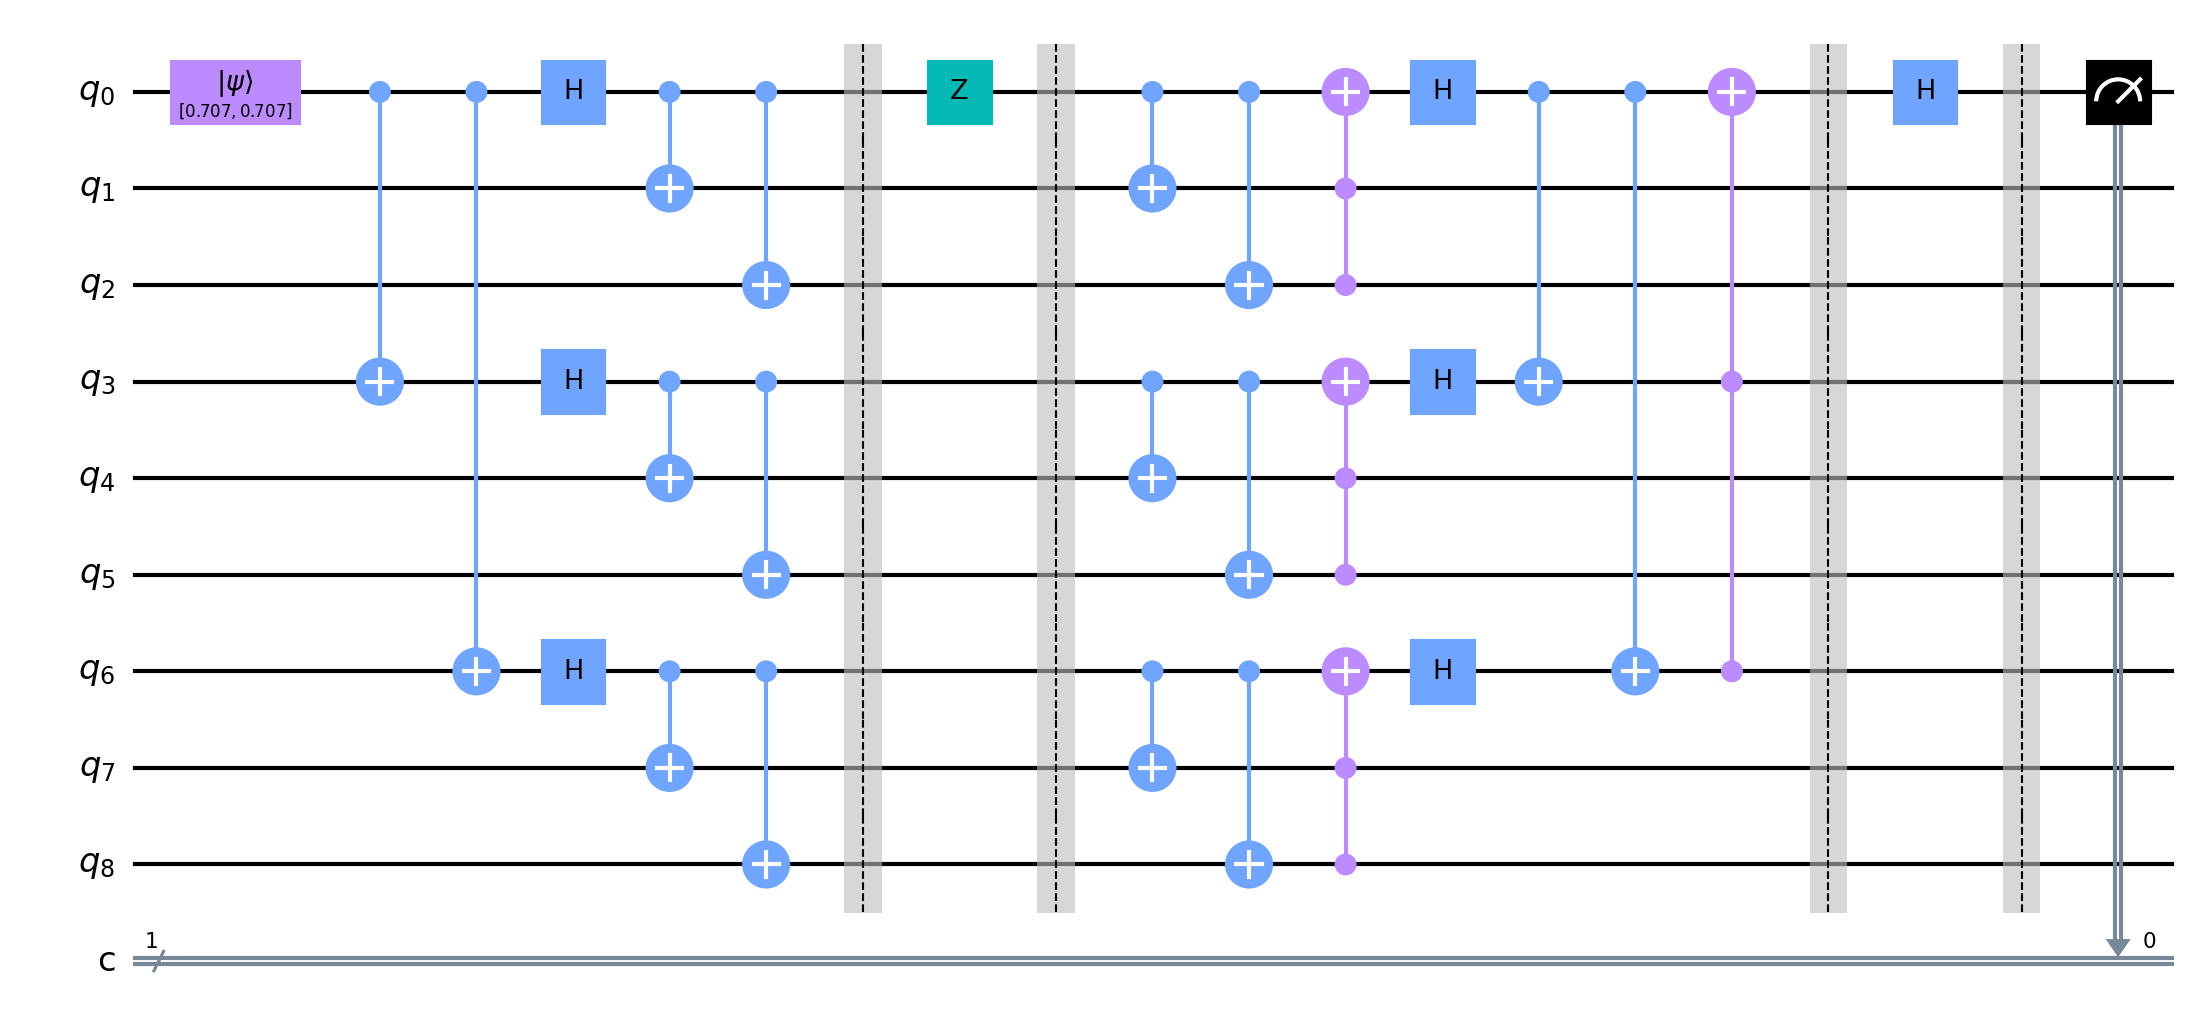
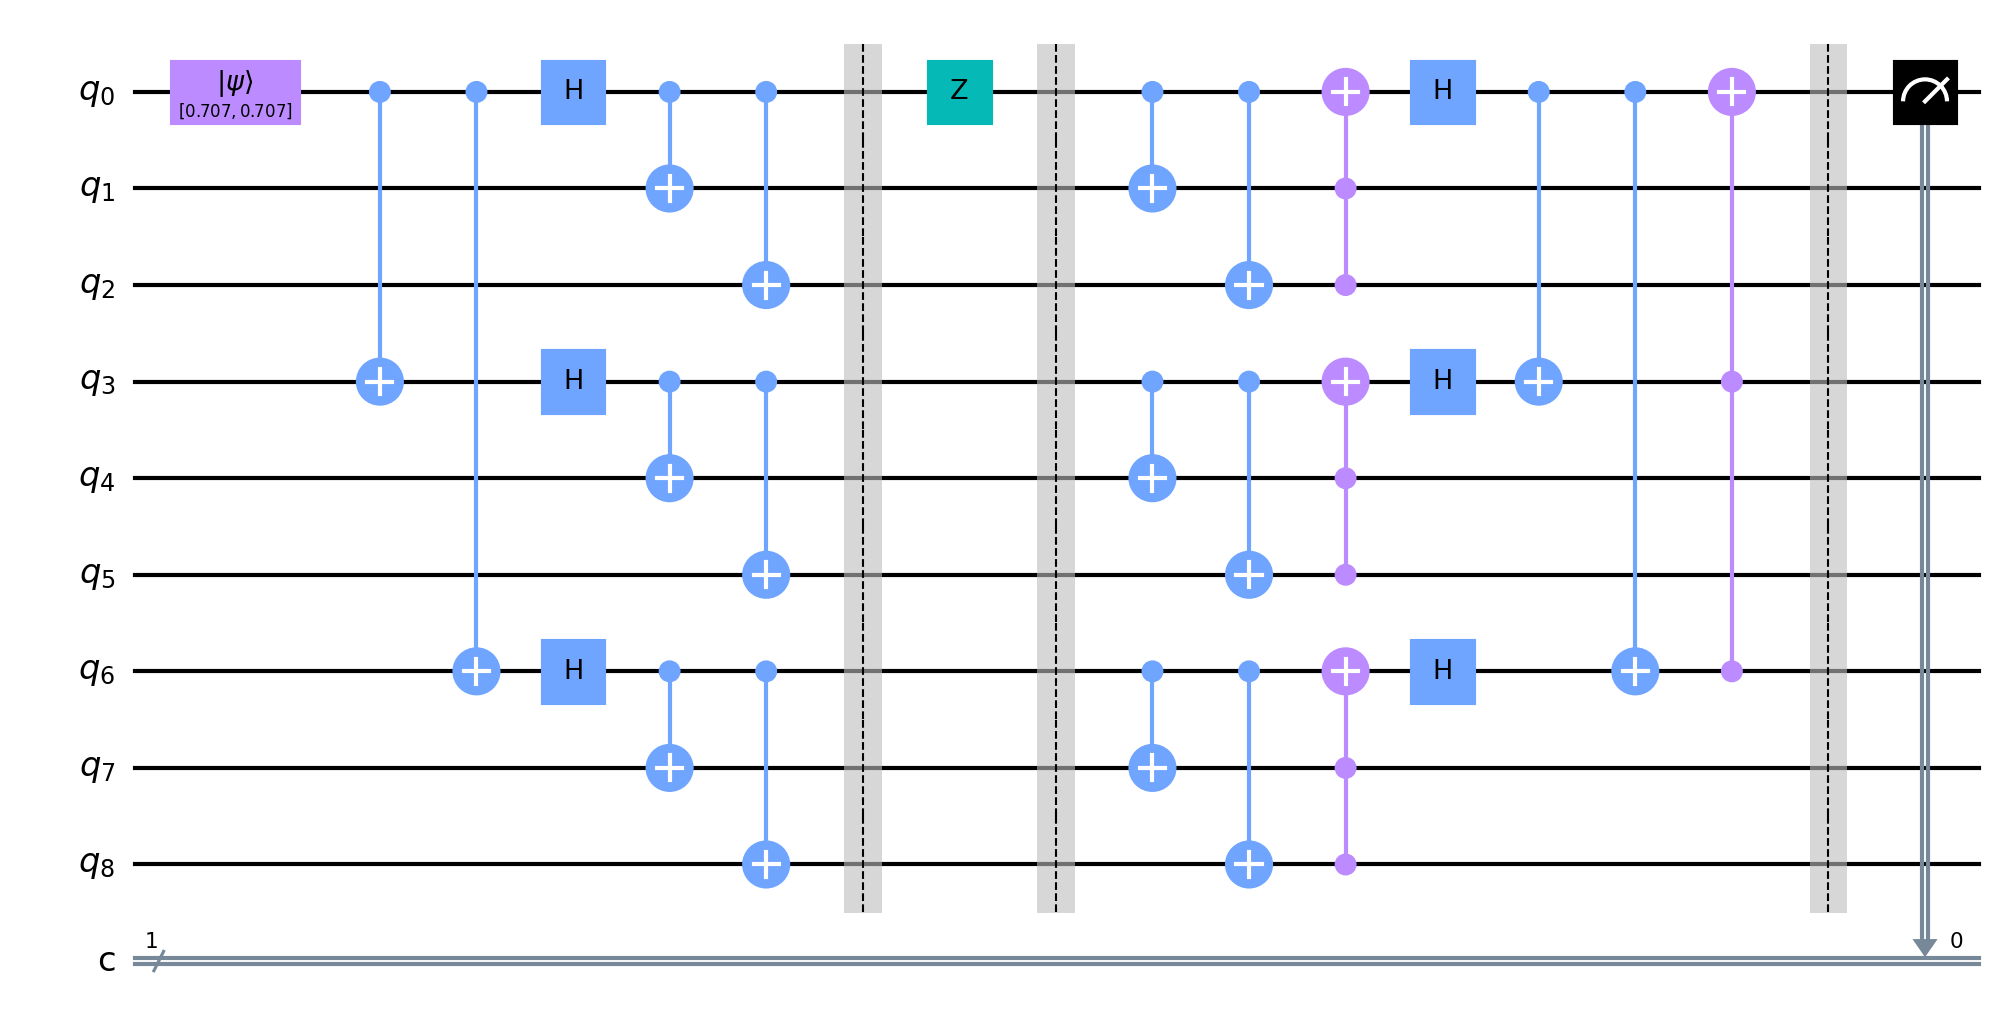
Fixing tests 1-4

diff --git a/report/test4_multiple_errors.py b/report/test4_multiple_errors.py
@@ -17,15 +17,19 @@ def run_test():
     # Get the ideal state before error
     ideal_sv = get_statevector(circuit)
 
-    # Insert errors on two qubits
+    # Insert two errors in the first block
+    # In the first block (qubits 0,1,2), we flip qubits 0 and 1
+    # This means 2 qubits vote for |1⟩ and 1 qubit votes for |0⟩
+    # The majority voting will incorrectly decide the block is in state |1⟩
+    print("Applying X errors to qubits 0 and 1 in the first block")
     circuit.x(q[0])
-    circuit.x(q[3])
+    circuit.x(q[1])
     circuit.barrier(q)
 
     # Get the corrupted state
     corrupted_sv = get_statevector(circuit)
 
-    # Decode the state
+    # Decode the state - this should fail due to incorrect majority voting
     circuit = decode_shor_code(circuit, q, c)
     circuit.barrier(q)
 
@@ -36,8 +40,8 @@ def run_test():
     circuit.draw(output='mpl', filename=get_image_path('test4_multiple_errors.png'))
 
     # Execute and get results
-    counts = run_circuit(circuit)
-    plot_results(counts, "Test 4: Multiple Errors Results")
+    counts = run_circuit(circuit, shots=1000)  # Ensure we have enough shots for good statistics
+    plot_results(counts, "Test 4: Multiple Errors Results", "test4_multiple_errors_histogram")
 
     # Calculate fidelity between ideal and corrupted state
     multiple_errors_fidelity = state_fidelity(ideal_sv, corrupted_sv)
@@ -45,10 +49,14 @@ def run_test():
     print(f"### Results:")
     print(f"- Measurement results: {counts}")
     print(f"- Fidelity between ideal and corrupted state: {multiple_errors_fidelity:.6f}")
-    print(f"- Expected outcome: Failed correction with significant probability of measuring |1⟩")
-    print("\nConclusion: The Shor code fails when multiple errors occur beyond its correction capability.\n")
-    print("The Shor code can correct at most one error of each type (bit flip and phase flip). ")
-    print("When errors occur on multiple qubits, the correction breaks down.\n")
+    print(f"- Expected outcome: Failed correction with high probability of measuring |1⟩")
+    print("\nExplanation:")
+    print("1. We started with logical |0⟩ state")
+    print("2. Applied X errors to qubits 0 and 1 in the first block")
+    print("3. This causes majority voting to fail because 2 qubits vote for |1⟩ and 1 for |0⟩")
+    print("4. The error correction incorrectly 'corrects' to |1⟩ instead of |0⟩")
+    print("\nThis demonstrates a fundamental limitation of the Shor code:")
+    print("It cannot correct multiple bit flips within the same 3-qubit block")
 
     return {
         'counts': counts,

diff --git a/report/utils.py b/report/utils.py
@@ -62,26 +62,34 @@ def create_shor_encoded_state(initial_state=[1, 0]):
 # Define a function to decode the Shor code
 def decode_shor_code(circuit, q, c):
     """Add decoding operations to the circuit"""
-    # Decoding
-    circuit.cx(q[0], q[1])
+    # First level of error correction - correct bit flips within each block
+    # Block 1
+    circuit.cx(q[0], q[1])  # Compare q[0] and q[1]
+    circuit.cx(q[0], q[2])  # Compare q[0] and q[2]
+    circuit.ccx(q[1], q[2], q[0])  # Majority vote
+    
+    # Block 2
     circuit.cx(q[3], q[4])
-    circuit.cx(q[6], q[7])
-    
-    circuit.cx(q[0], q[2])
     circuit.cx(q[3], q[5])
-    circuit.cx(q[6], q[8])
-    
-    circuit.ccx(q[1], q[2], q[0])
     circuit.ccx(q[4], q[5], q[3])
+    
+    # Block 3
+    circuit.cx(q[6], q[7])
+    circuit.cx(q[6], q[8])
     circuit.ccx(q[7], q[8], q[6])
     
+    # Convert to phase basis for phase error correction
     circuit.h(q[0])
     circuit.h(q[3])
     circuit.h(q[6])
     
-    circuit.cx(q[0], q[3])
+    # Second level - correct phase flips
+    circuit.cx(q[0], q[3])  # Compare blocks
     circuit.cx(q[0], q[6])
-    circuit.ccx(q[3], q[6], q[0])
+    circuit.ccx(q[3], q[6], q[0])  # Majority vote
+    
+    # Convert back to computational basis
+    circuit.h(q[0])
     
     return circuit
 
@@ -97,7 +105,7 @@ def get_statevector(circuit):
     return job.result().get_statevector()
 
 # Function to visualize results
-def plot_results(results_dict, title):
+def plot_results(results_dict, title, filename=None):
     labels = list(results_dict.keys())
     values = list(results_dict.values())
     
@@ -106,5 +114,7 @@ def plot_results(results_dict, title):
     plt.title(title)
     plt.ylabel('Counts')
     plt.xlabel('Measurement Outcome')
-    plt.savefig(get_image_path(f"{title.replace(' ', '_')}.png"))
+    if filename is None:
+        filename = title.replace(' ', '_')
+    plt.savefig(get_image_path(f"{filename}.png"))
     plt.close() 

diff --git a/report/test2_phase_flip.py b/report/test2_phase_flip.py
@@ -41,7 +41,7 @@ def run_test():
 
     # Execute and get results
     counts = run_circuit(circuit)
-    plot_results(counts, "Test 2: Phase Flip Correction Results")
+    plot_results(counts, "Test 2: Phase Flip Correction Results", "test2_phase_flip_histogram")
 
     # Calculate fidelity between ideal and corrupted state
     phase_flip_fidelity = state_fidelity(ideal_sv, corrupted_sv)

diff --git a/report/test1_bit_flip.py b/report/test1_bit_flip.py
@@ -36,7 +36,7 @@ def run_test():
 
     # Execute and get results
     counts = run_circuit(circuit)
-    plot_results(counts, "Test 1: Bit Flip Correction Results")
+    plot_results(counts, "Test 1: Bit Flip Correction Results", "test1_bit_flip_histogram")
 
     # Calculate fidelity between ideal and corrupted state
     bit_flip_fidelity = state_fidelity(ideal_sv, corrupted_sv)

diff --git a/report/test3_y_error.py b/report/test3_y_error.py
@@ -42,7 +42,7 @@ def run_test():
 
     # Execute and get results
     counts = run_circuit(circuit)
-    plot_results(counts, "Test 3: Y Error Correction Results")
+    plot_results(counts, "Test 3: Y Error Correction Results", "test3_y_error_histogram")
 
     # Calculate fidelity between ideal and corrupted state
     y_error_fidelity = state_fidelity(ideal_sv, corrupted_sv)
